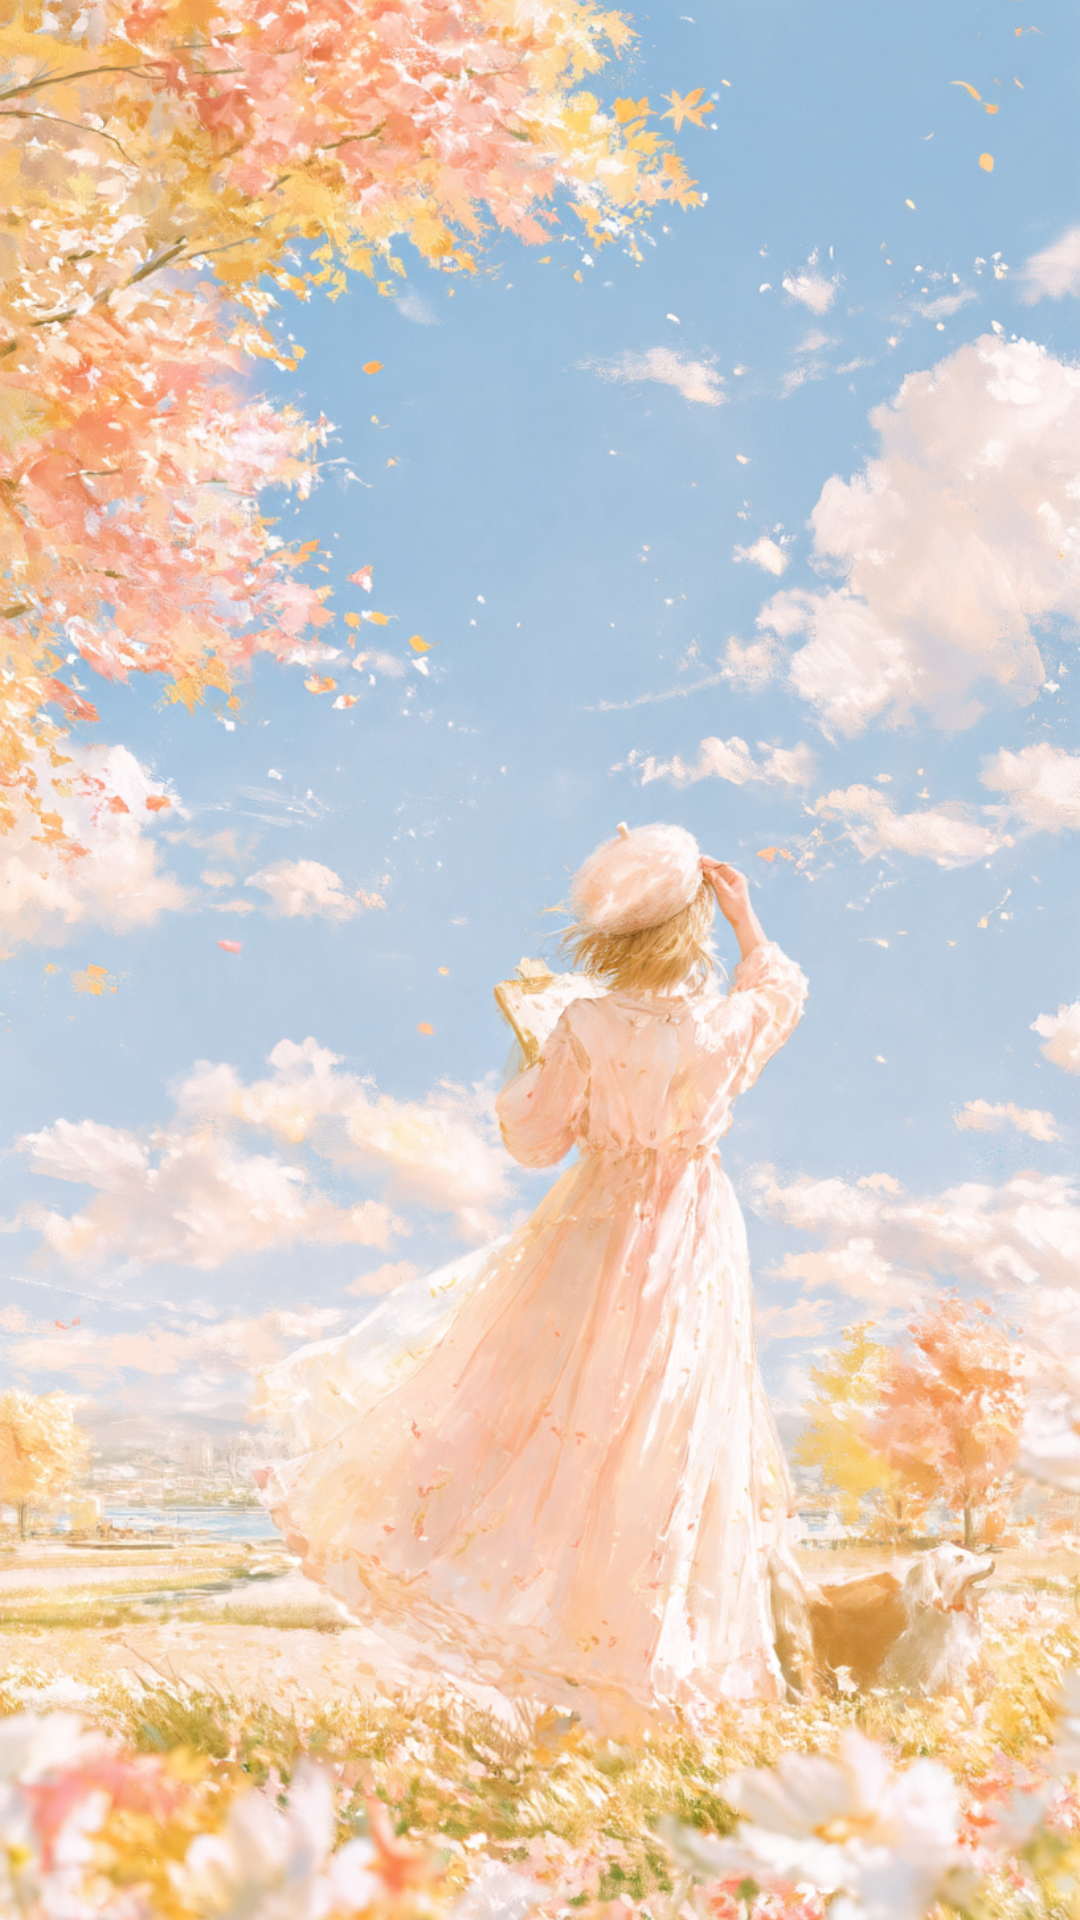
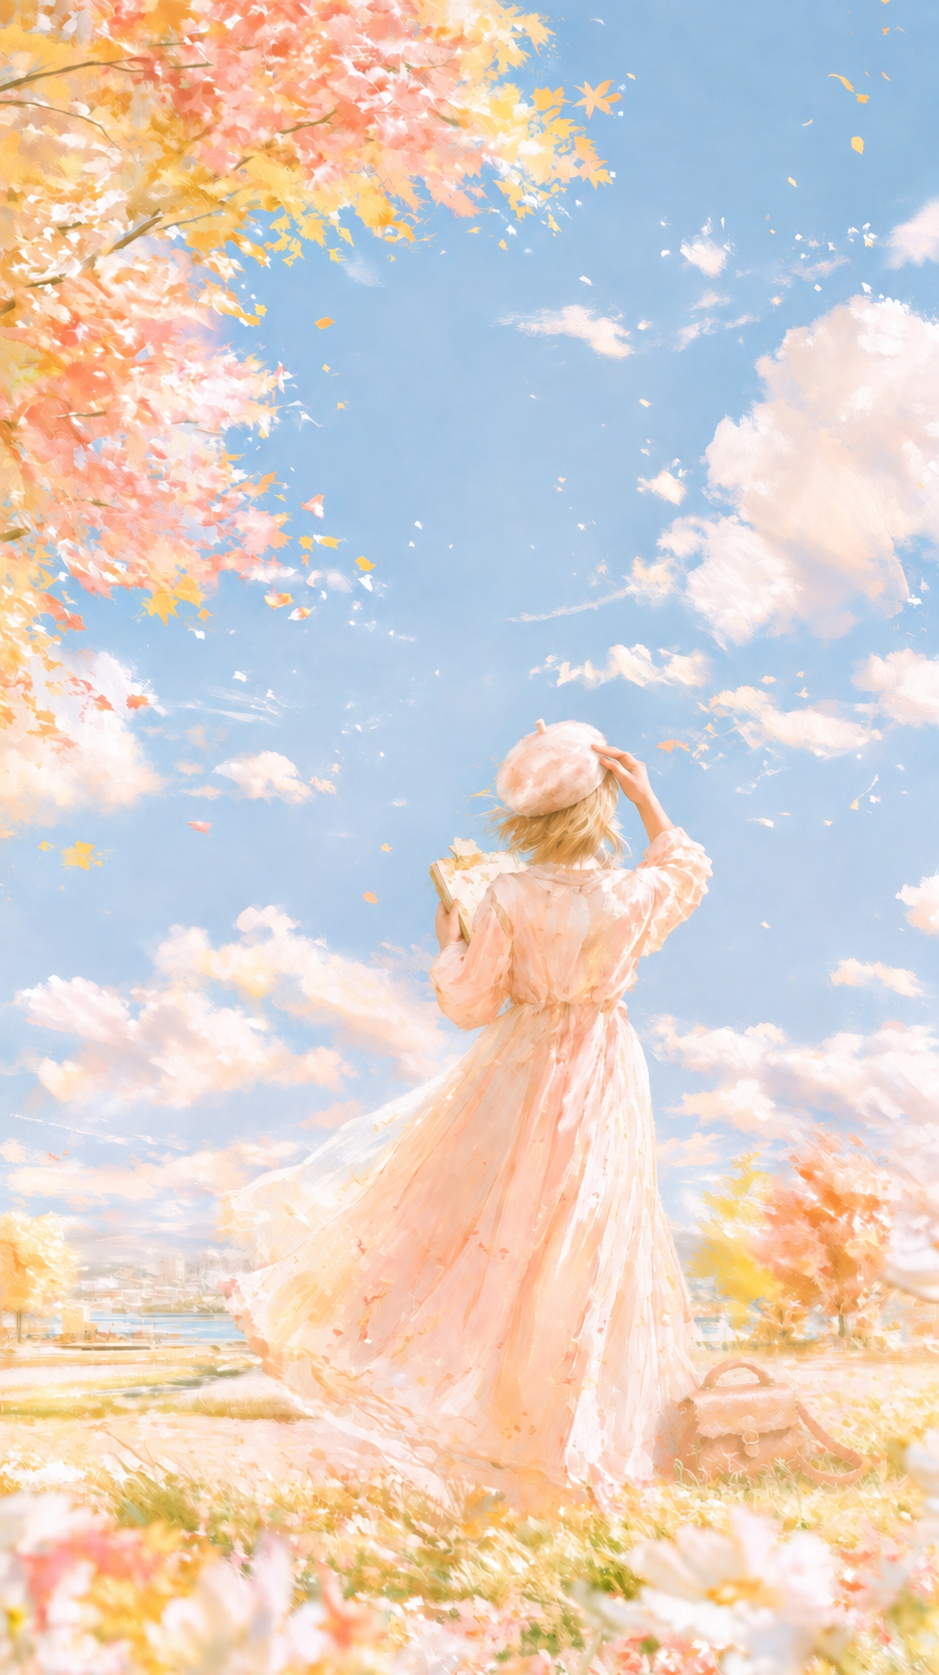
Add files via upload

diff --git a/index.html b/index.html
@@ -406,7 +406,7 @@ const CONFIG = {
   title:    "展示タイトル",
   artist:   "はなゆめアート",
   role:     "AI  ARTIST",
-  profile:  "ふんわり心があたたかくなる世界をAIツールのMidjourneyを使って描いています。\nやさしい光と柔らかな色彩を大切に、季節の美しさや日常の小さな幸せを描いています。",
+  profile:  "ふんわりと心があたたかくなるような世界を\nAIツール「Midjourney」を使って描いています✨☺\n\nやさしい光と柔らかな色彩を大切にしながら、\n季節の美しさや日常に散りばめられた小さな幸せを\n一枚一枚のアートに込めています🍁\n\nぜひ楽しんでいただけたら嬉しいです🥰",
   closing:  "ご覧いただきありがとうございました。",
   links: [
     { label:"はなゆめアートの世界", url:"https://www.instagram.com/hana_yume_art" }
